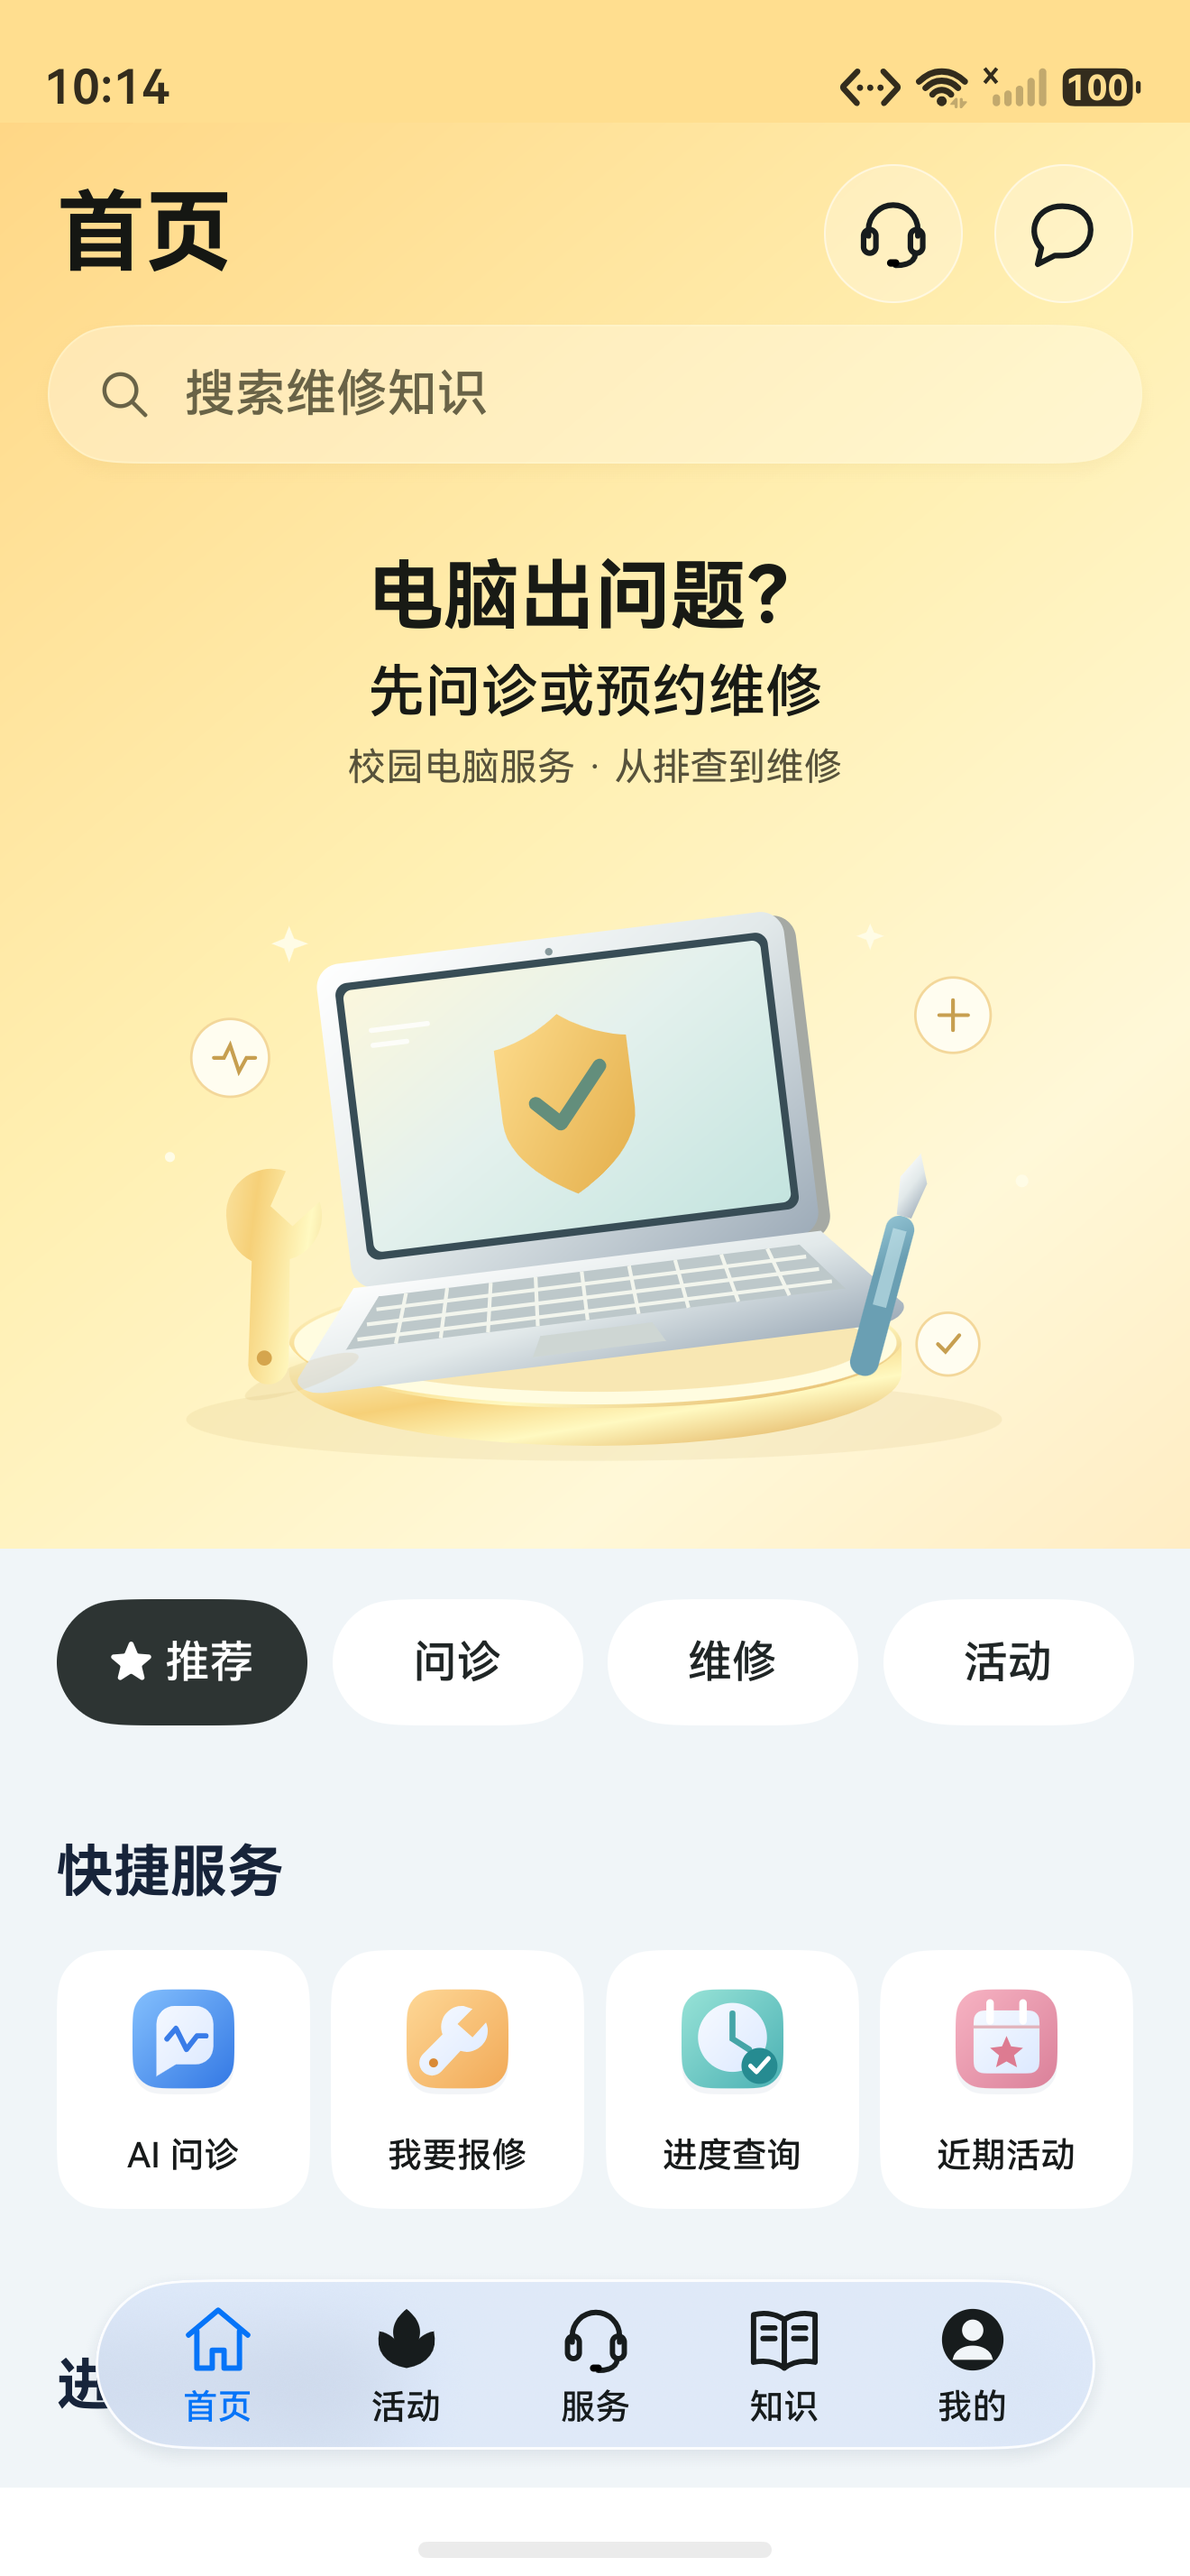
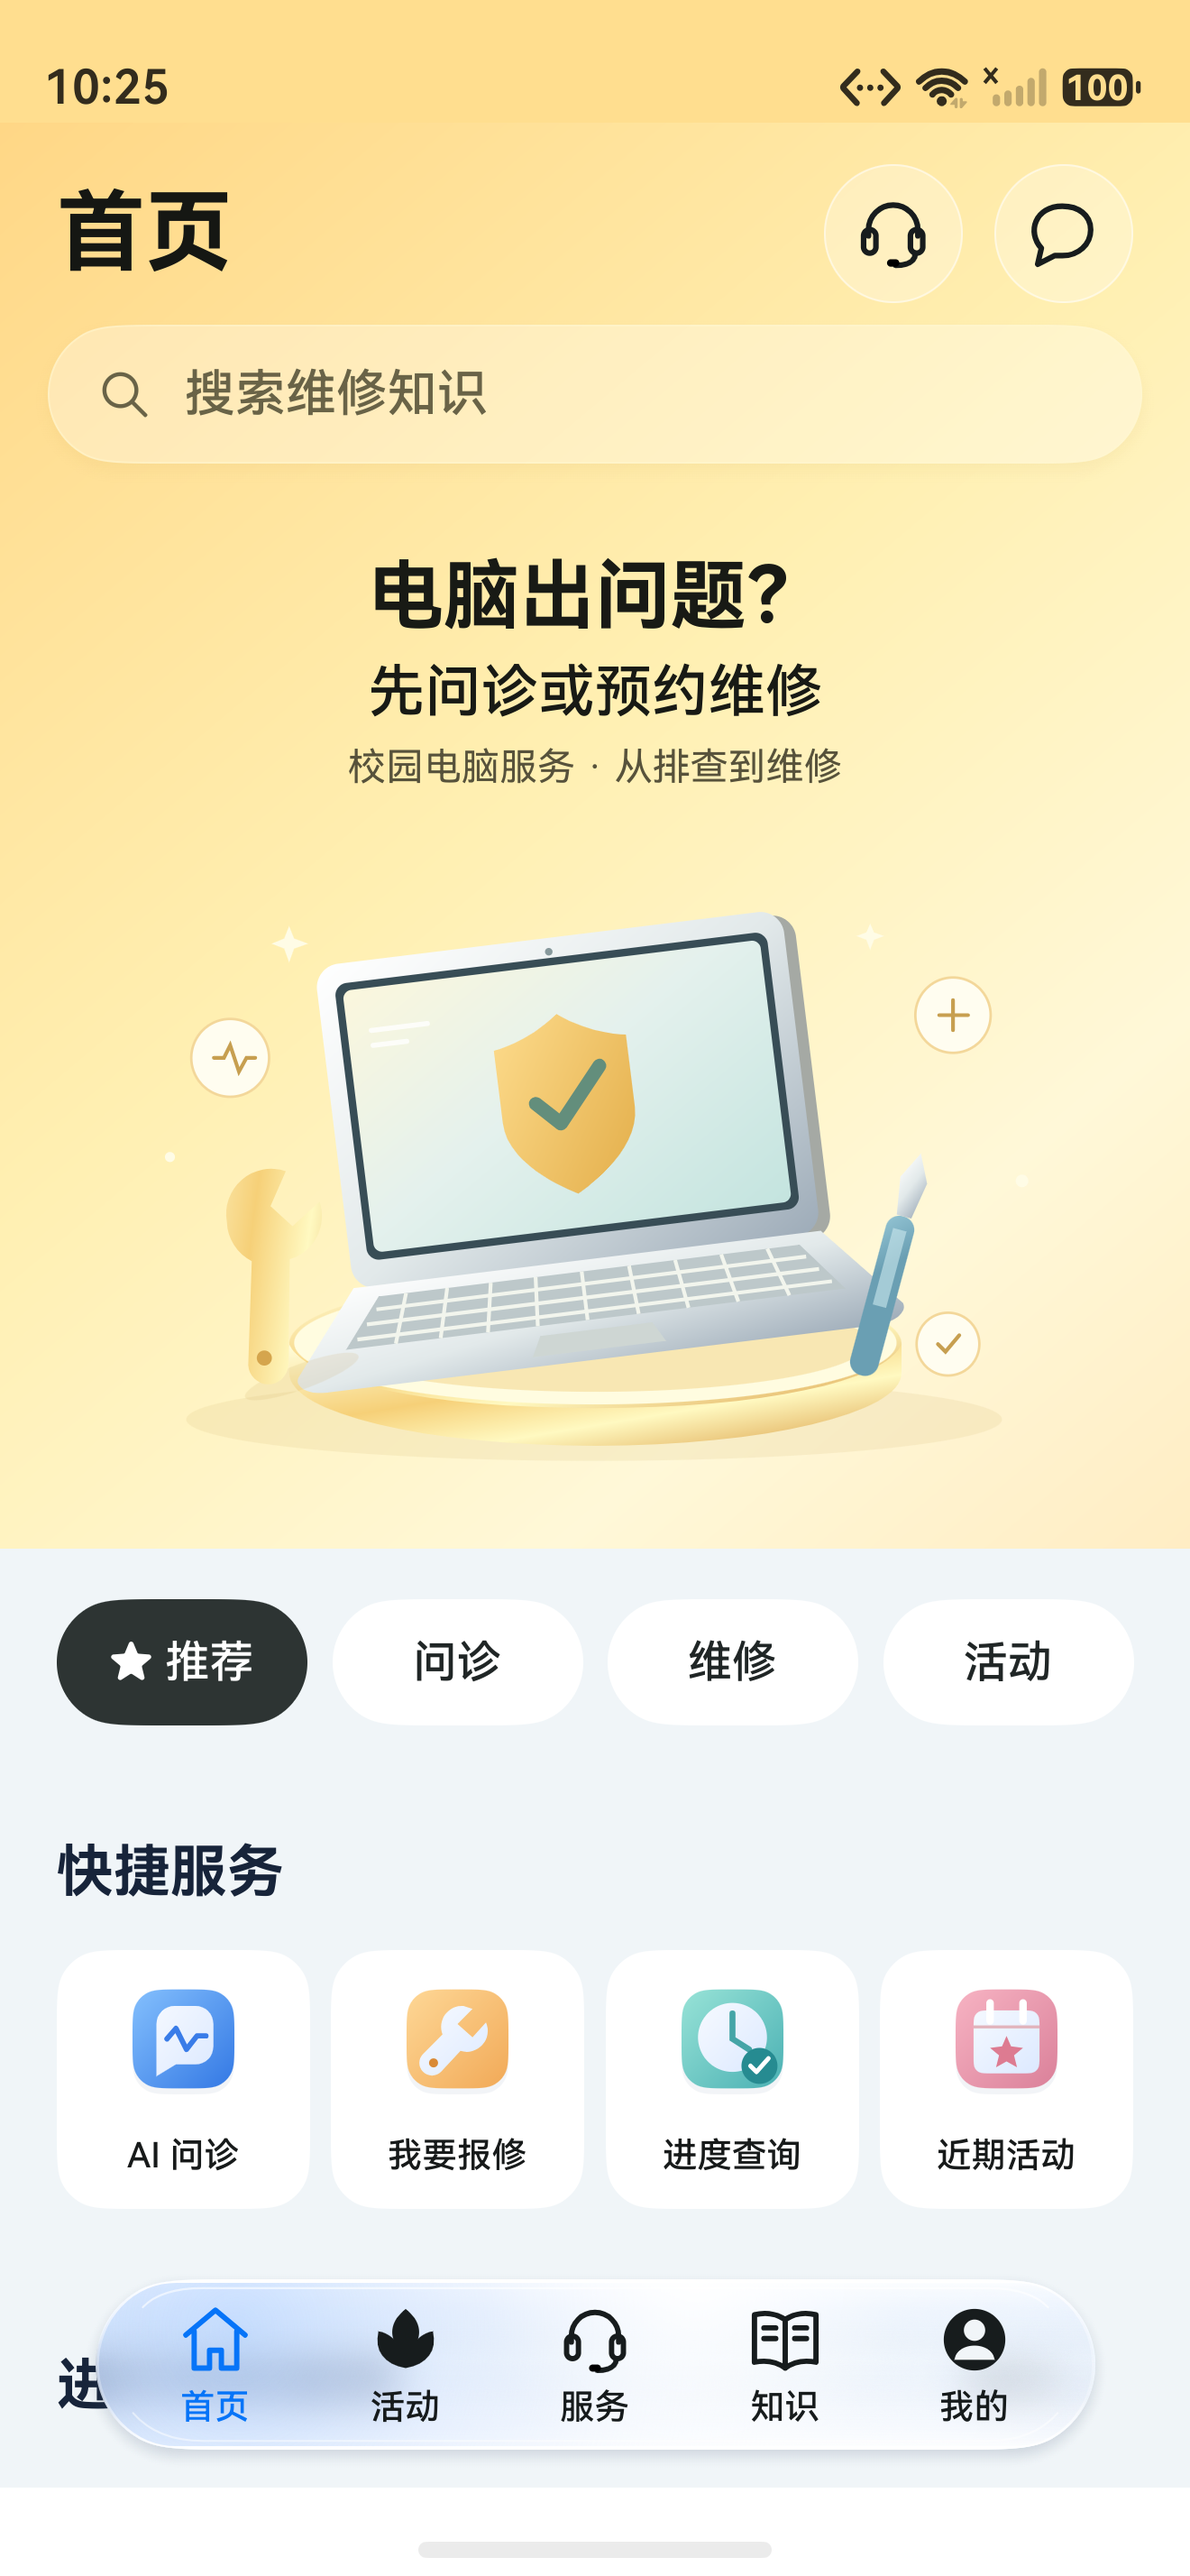
fix(ui): 增强底部导航的透光与玻璃边缘高光

Changed region(s): [[0.4659, 0.8725, 0.8697, 0.966], [0.0621, 0.9037, 0.2174, 0.9349], [0.0932, 0.0312, 0.1242, 0.0623]]

diff --git a/docs/verification/home-reference-20261012.md b/docs/verification/home-reference-20261012.md
@@ -22,7 +22,7 @@ $env:Path='D:/DevEco Studio/tools/node;'+$env:Path
 & 'D:/DevEco Studio/tools/hvigor/bin/hvigorw.bat' --mode module -p product=default assembleHap
 ```
 
-最终构建 `BUILD SUCCESSFUL`，未签名 HAP 1,397,664 字节。编译有 5 处异常处理警告（知识引用、知识问答、服务与首页的提示调用），无编译错误；未配置签名，不能据此保证实体手机安装。
+最终构建 `BUILD SUCCESSFUL`，未签名 HAP 1,401,078 字节。编译有 5 处异常处理警告（知识引用、知识问答、服务与首页的提示调用），无编译错误；未配置签名，不能据此保证实体手机安装。
 
 ```powershell
 hdc install -r app/entry/build/default/outputs/default/entry-default-unsigned.hap
@@ -61,3 +61,7 @@ hdc shell uitest dumpLayout -p /data/local/tmp/home-layout.json
 ## 未验证范围
 
 未做实体手机、深色模式、大字体或其他屏幕尺寸适配验证；未重复测试完整报修、照片、AI 调用或案例回流链路。本次没有后端改动，未重跑数据库套件与全仓测试。首页搜索暂为问答入口，不代表已实现搜索建议或独立搜索结果页。
+
+## 导航玻璃材质补充
+
+维护者要求导航具备参考图的液态玻璃质感，进一步将原先较均匀的磨砂蓝替换为低遮罩的原生背景模糊，加上透明 SVG 分层渐变、蓝白反光、内外沿高光与悬浮阴影；装饰层禁用命中测试，保留真实按钮交互。未使用参考截图裁片冒充导航。已再次构建、安装并检查客户与工作人员导航，截图更新为此版本。该实现按静态参考图拟合材质，并非对原应用系统渲染器的逐像素复刻。
